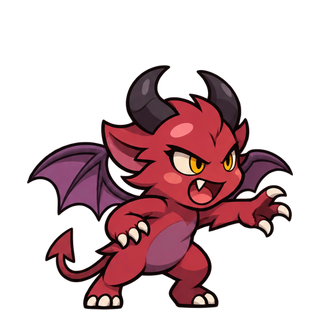
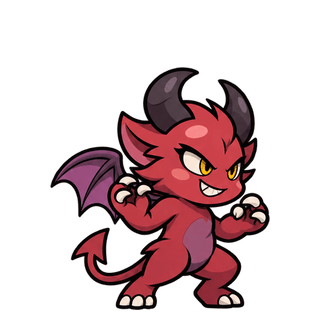
신규 몬스터 진화 · 동작, 신규 용사 동작 그림 들임 (56장)
- 몬스터 4종 진화 2·3단계 32장(make-mon-evo, 2.43 → 0.77MB): Lv 25 · 75 에 모습이 바뀐다 (evo: [2,3])
- 몬스터 4종 기본 동작 12장 · 용사 4종 동작 12장(make-anim, 2.05 → 0.66MB): 대기 2장 · 공격 3장
- 진화를 먼저 들였다 — 동작을 들이면 타격 그림이 attack_1 → attack_2 로 옮겨져 진화 검사의 기준이 바뀐다
- 56장 검사 · 육안 검수 통과. 진화 레벨별 전투 · 용사 공격 재생 확인, 404 없음
- 남은 것: 진화 단계 동작 24장 — docs/new-monsters-4-phase2b-handoff.md

diff --git a/docs/new-monsters-4-phase2b-handoff.md b/docs/new-monsters-4-phase2b-handoff.md
@@ -1,0 +1,56 @@
+# 아트 담당(Codex) 전달 — 신규 몬스터 4종 2차-B (진화 단계 동작 프레임 24장)
+
+> **상태: 기다리는 중 (2026-11-16).** 2차-A(진화 32 · 기본 동작 12)는 적용 완료.
+> 이제 루트링 · 그리플링 · 요툰 · 임피가 Lv 25 · 75 에 모습이 바뀝니다. 다만 **진화한 모습은 대기·공격이 한 장씩**이라
+> 기본 모습(대기 2장 · 공격 3장)보다 뻣뻣합니다 — 기존 12종은 진화 단계도 전부 3장씩 받았습니다.
+
+이것으로 신규 몬스터 4종의 그림 요청이 끝납니다.
+
+## 만들 것 — 4종 × 2단계 × 3장 = 24장
+
+| 파일 | 순간 |
+|---|---|
+| `mon_<키>_t2_idle_2.png` · `mon_<키>_t3_idle_2.png` | 대기 둘째 (그 단계 `idle_1` 과 번갈아) |
+| `mon_<키>_t2_attack_windup.png` · `mon_<키>_t3_attack_windup.png` | 공격 준비 (타격 바로 앞) |
+| `mon_<키>_t2_attack_follow.png` · `mon_<키>_t3_attack_follow.png` | 마무리 (타격 바로 뒤) |
+
+키: `treant` · `griffin` · `frostgiant` · `imp`. 타격 그림은 이미 있는 것을 씁니다 — 만들지 않습니다.
+
+## 기준 그림 — 모습은 그 단계, 몸짓은 기본 단계
+
+[docs/anim-frames-handoff.md](anim-frames-handoff.md) "2차 기준 그림" 과 같은 규칙입니다.
+
+| 용도 | 파일 (`assets/mon/<키>/`) |
+|---|---|
+| **그 단계의 모습** (색 · 장식 · 형태) | `t2_idle_1.png` · `t2_attack_1.png` (3단계는 `t3_`) — 진화 단계의 타격 그림은 아직 `attack_1` 이름 그대로입니다 |
+| **몸짓** (2차-A 에서 정한 동작) | `idle_2.png` · `attack_1.png`(준비) · `attack_3.png`(마무리) — 기본 단계 타격은 `attack_2.png` 로 옮겨졌습니다 |
+
+같은 몬스터가 단계마다 **같은 몸짓**으로 움직여야 진화가 "같은 캐릭터가 화려해진 것" 으로 읽힙니다.
+모습은 그 단계 그림을, 동작은 기본 단계 그림을 따라 주세요.
+
+## 규격
+
+- 캔버스 320×320 RGBA · 발 309 · 가로 중심 ±0.6 — **그 단계의** `idle_1` 과 같게.
+- `idle_2` 는 내용 크기가 그 단계 `idle_1` 과 ±6px.
+- 공격 두 장은 높이가 그 단계 idle 의 0.7~1.15배.
+- 오른쪽(적 쪽)을 봅니다. 몸짓은 크게 — 기준 그림과 2% 이상 달라야 통과.
+
+## 넘겨줄 곳 · 검사
+
+```
+D:/AI/workspace/game/games/output/monster-idle/mon-new4-anim-v2/
+  mon_treant_t2_idle_2.png · mon_treant_t2_attack_windup.png · mon_treant_t2_attack_follow.png
+  mon_treant_t3_idle_2.png · …
+  mon_griffin_t2_… · mon_frostgiant_t2_… · mon_imp_t2_… (t3 도)
+```
+
+```
+node tools/check-anim.mjs "D:/AI/workspace/game/games/output/monster-idle/mon-new4-anim-v2"
+```
+
+**"✅ 전부 통과했습니다. 보내 주세요."** 가 나오면 그대로 보내 주세요. 단계별로 끊어 보내셔도 됩니다(한 단계의 windup · follow 는 짝으로).
+
+## 이쪽(Claude)에서 할 일
+
+`node tools/make-anim.mjs <폴더>` → 팔레트 압축 · 진화 단계 타격 그림 `t2_attack_1 → t2_attack_2` 재배치 ·
+매니페스트 `stageFrames` 기록 → Lv 25 · 75 에서 대기·공격 재생 확인 → 배포.

diff --git a/DESIGN.md b/DESIGN.md
@@ -1555,7 +1555,7 @@ ttk 가 **0 으로 언더플로**하고 `log10(0) = -Infinity` 라 보상이 통
 `<img>` 의 onerror 로 `?` 를 띄운다. 그림이 와도 코드는 안 바뀐다 —
 요청서는 `docs/new-monsters-handoff.md` 에 있다.
 
-### 몬스터 4종 추가 — 루트링 · 그리플링 · 요툰 · 임피 (2026-11-16, 기본 포즈 적용 · 진화·동작 대기)
+### 몬스터 4종 추가 — 루트링 · 그리플링 · 요툰 · 임피 (2026-11-16, 기본 · 진화 · 기본 동작 적용 · 진화 단계 동작 대기)
 
 스포어링(100)과 본가드(200) 사이 120 · 140 · 160 · 180층. 모두의 타워디펜스 월드 보스(고대 나무 거인 · 폭풍 그리폰 ·
 서리 거인 · 마왕)를 꼬마로 옮겼다 — 기존 12종·진화 모습과 겹치지 않는 종만(킹 슬라임 = 글룹 Lv50 왕관, 새끼 드래곤 = 이그나리온).
@@ -1579,7 +1579,7 @@ ttk 가 **0 으로 언더플로**하고 `log10(0) = -Infinity` 라 보상이 통
 - 들이기: `make-mon.mjs` 가 평평한 이름(`mon_<키>_idle_1.png` …)을 받고 `check-anim.mjs` 가 기존 12종 규격(320² · 발 309 · 중심 159.5 · idle 크기 · 포즈 높이 비율)으로 잰다.
   임시 그림으로 들이기 → 해금 → 도감 → 리드 전투까지 돌려 보고 되돌렸다.
 
-### 적 용사 4종 추가 — 로완 · 토르빈 · 할든 · 그레타 (2026-11-16, 기본 포즈 적용 · 동작 대기)
+### 적 용사 4종 추가 — 로완 · 토르빈 · 할든 · 그레타 (2026-11-16, 그림 전부 적용)
 
 용사 8종은 모두의 타워디펜스 아군과 **같은 인물**이다(같은 캐릭터 팩 — 카엘 = 병사, 리나 = 궁수 …, 화풍만 다르다).
 그쪽에만 있던 창병 · 방패병 · 기병 · 대포병을 적 용사로 더해 12종 — 구역 대표 주기가 40층 → 60층이 된다.

diff --git a/docs/new-monsters-4-phase2-handoff.md b/docs/new-monsters-4-phase2-handoff.md
@@ -1,7 +1,8 @@
 # 아트 담당(Codex) 전달 — 신규 몬스터 4종 2차 (진화 · 동작 프레임)
 
-> **상태: 2-A 기다리는 중 (2026-11-16).** 1차 기본 포즈 16장은 적용 완료 — 4종이 게임에 나왔습니다
-> (`docs/new-monsters-4-handoff.md`). 지금은 레벨을 올려도 모습이 그대로이고, 대기·공격이 한 장씩입니다.
+> **2-A 적용 완료 (2026-11-16).** 진화 32장(`make-mon-evo`, 2.43MB → 0.77MB) · 기본 동작 12장(`make-anim`, 0.94MB → 0.32MB) 검사·육안 검수 통과.
+> 매니페스트 `evo: [2,3]` · 대기 2장 · 공격 3장. Lv 25 · 75 전환과 전투 재생 확인, 404 없음.
+> **2-B(진화 단계 동작 24장)는 `docs/new-monsters-4-phase2b-handoff.md`.**
 
 | 키 | 이름 | 능력 (진화할수록 진해져야 할 성격) | 포인트 색 |
 |---|---|---|---|

diff --git a/docs/new-heroes-4-phase2-handoff.md b/docs/new-heroes-4-phase2-handoff.md
@@ -1,7 +1,7 @@
 # 아트 담당(Codex) 전달 — 적 용사 4종 2차 (동작 프레임 12장)
 
-> **상태: 기다리는 중 (2026-11-16).** 1차 기본 포즈 16장은 적용 완료 — 로완 · 토르빈 · 할든 · 그레타가 41~60층에 나옵니다
-> (`docs/new-heroes-4-handoff.md`). 지금은 대기·공격이 한 장씩이라 기존 8종보다 뻣뻣합니다.
+> **적용 완료 (2026-11-16) — 신규 용사 그림 요청 전부 끝.** 12장 검사·육안 검수 통과 · `make-anim` 압축 1.11MB → 0.34MB(30%).
+> 이제 기존 8종과 같이 대기 2장 · 공격 3장이다.
 
 용사는 진화 단계가 없어서 이것으로 끝입니다. 기존 8종이 받은 것과 같은 3장씩입니다.
 원칙은 [docs/anim-frames-handoff.md](anim-frames-handoff.md) "세 장의 뜻" 그대로입니다.
